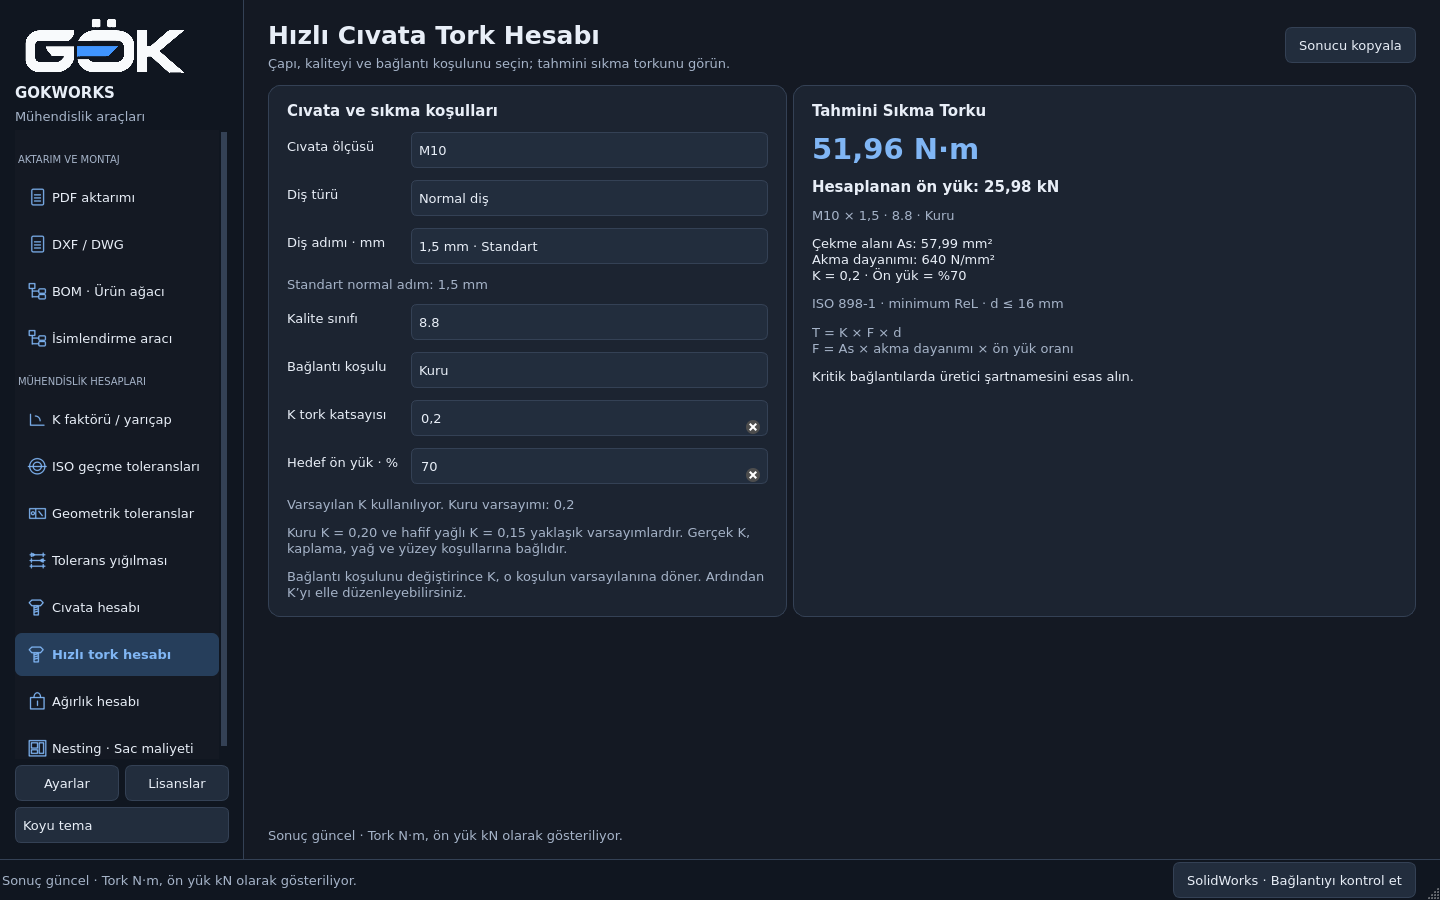
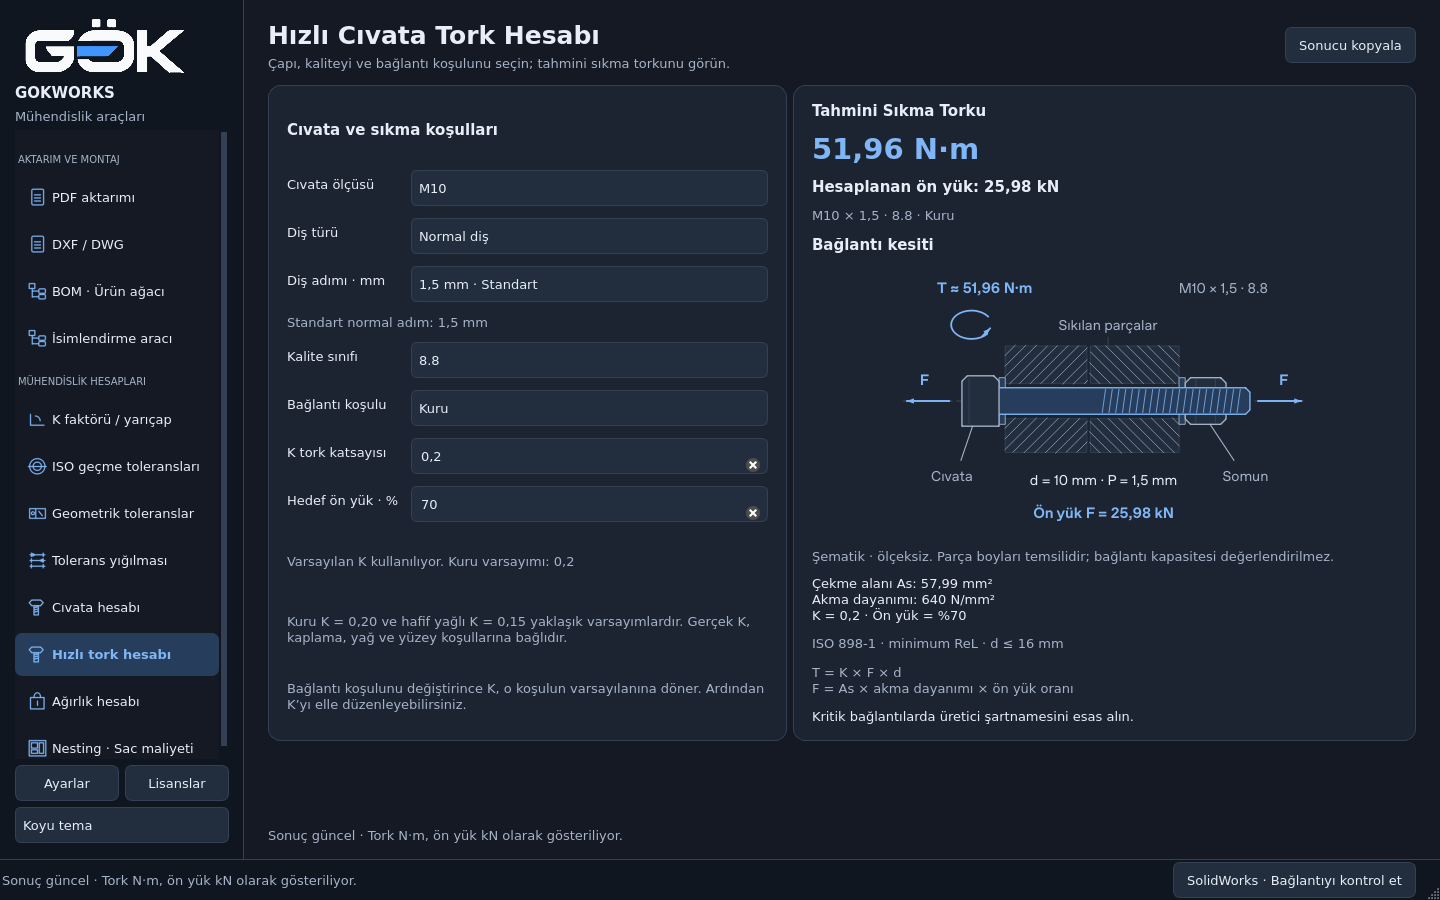
Add a live bolt joint section to the quick torque calculator

diff --git a/gui_qt/torque_diagram.py b/gui_qt/torque_diagram.py
@@ -1,0 +1,111 @@
+"""Schematic longitudinal bolt-joint section for the quick torque tool.
+
+Only diameter/pitch and the existing calculated torque/preload are labelled.
+Head, nut, grip, hole and plate geometry is illustrative, not catalogue data.
+"""
+
+from math import floor
+
+from .theme import COLORS
+
+
+def draw_section(scene, result, appearance, format_value):
+    c = COLORS[appearance]
+    scene.delete('all')
+    scene.configure(background=c['panel'])
+
+    def line(*points, color=None, **options):
+        return scene.create_line(*points, fill=color or c['muted'],
+                                 width=options.pop('width', 1.2), **options)
+
+    def text(x, y, value, *, tag=None, color=None, bold=False, **options):
+        return scene.create_text(x, y, text=value, fill=color or c['text'],
+                                 font=('Segoe UI', -17, 'bold') if bold else ('Segoe UI', -16),
+                                 tags=tag or (), **options)
+
+    def polygon(points, tag, *, fill=None, outline=None):
+        return scene.create_polygon(points, fill=fill or c['input'],
+                                    outline=outline or c['muted'], width=1.5, tags=tag)
+
+    def section(x0, y0, x1, y1, reverse=False):
+        scene.create_rectangle(x0, y0, x1, y1, fill=c['input'], outline=c['border'],
+                               tags='clamped_parts')
+        # Clip hatch strokes to each plate wall; the bolt bore remains clear.
+        height = y1-y0
+        for start in range(floor(x0-height), floor(x1), 12):
+            left, right = max(x0, start), min(x1, start+height)
+            if right <= left:
+                continue
+            first, last = y1-(left-start), y1-(right-start)
+            if reverse:
+                first, last = y0+y1-first, y0+y1-last
+            line(left, first, right, last, color=c['muted'], width=.8, tags='plate_hatch')
+
+    if result is None:
+        text(250, 150, 'Geçerli ölçüler girildiğinde kesit burada görünür.',
+             tag='section_empty', color=c['muted'], width=440)
+        return
+
+    y = 150
+    # Modest diameter-dependent proportions keep M3 and M36 readable in the
+    # same viewport. No unprovided length is presented as a real dimension.
+    diameter = 26 + 14*result.diameter_mm/36
+    top, bottom = y-diameter/2, y+diameter/2
+    for x0, x1, reverse in ((139, 231, False), (235, 335, True)):
+        section(x0, 88, x1, top-5, reverse)
+        section(x0, bottom+5, x1, 208, reverse)
+    line(24, y, 476, y, color=c['border'], dash=(6, 4), tags='bolt_axis')
+
+    # Washers and a chamfered nut side elevation. Fasteners remain unhatched
+    # in this longitudinal section; the projecting threaded end is visible.
+    nut_half = diameter*.88
+    for x0, x1 in ((132, 139), (335, 342)):
+        scene.create_rectangle(x0, y-nut_half, x1, y+nut_half,
+                               fill=c['selected'], outline=c['muted'], tags='washers')
+    polygon((342, y-nut_half+6, 348, y-nut_half, 382, y-nut_half,
+             388, y-nut_half+6, 388, y+nut_half-6, 382, y+nut_half,
+             348, y+nut_half, 342, y+nut_half-6), 'nut_profile')
+    for x in (354, 376):
+        line(x, y-nut_half+2, x, y+nut_half-2, color=c['border'])
+
+    polygon((131, top, 410, top, 415, top+5, 415, bottom-5,
+             410, bottom, 131, bottom), 'bolt_shank', fill=c['selected'], outline=c['accent'])
+    step = 4 + 24*result.pitch_mm/result.diameter_mm
+    x = 252.
+    while x < 410:
+        line(x, top+2, x-step*.48, bottom-2, color=c['accent'], width=.9, tags='bolt_thread')
+        x += step
+    head_left = 132-diameter*1.4
+    head_half = diameter*.95
+    polygon((head_left, y-head_half+6, head_left+6, y-head_half,
+             126, y-head_half, 132, y-head_half+6,
+             132, y+head_half, head_left, y+head_half), 'bolt_head')
+    line(head_left+8, y-head_half+3, head_left+8, y+head_half-3, color=c['border'])
+
+    # Opposing axial arrows denote the target bolt tension, not an external
+    # service load or an assessment of the plates/nut's capacity.
+    if result.preload_n > 0:
+        line(76, y, 28, y, color=c['accent'], width=2.2, arrow='last', tags='preload_arrow')
+        line(424, y, 473, y, color=c['accent'], width=2.2, arrow='last', tags='preload_arrow')
+        text(48, 126, 'F', color=c['accent'], bold=True)
+        text(453, 126, 'F', color=c['accent'], bold=True)
+    if result.torque_nm > 0:
+        # Conventional tightening-moment symbol beside the head.
+        scene.create_arc(78, 48, 124, 80, start=35, extent=285,
+                         outline=c['accent'], width=2, tags='torque_arc')
+        line(113, 77, 122, 68, color=c['accent'], width=2, arrow='last', tags='torque_arrow')
+    text(116, 23, f'T ≈ {format_value(result.torque_nm)} N·m',
+         tag='section_torque', color=c['accent'], bold=True, width=220)
+    pitch = f'{result.pitch_mm:g}'.replace('.', ',')
+    text(385, 23, f'{result.metric} × {pitch} · {result.grade}',
+         tag='section_selection', color=c['muted'], width=210)
+    text(255, 65, 'Sıkılan parçalar', color=c['muted'], tag='parts_label')
+    line(255, 78, 255, 88, color=c['border'])
+    line(head_left+12, y+head_half, 89, 217, color=c['muted'])
+    text(79, 235, 'Cıvata', tag='bolt_label', color=c['muted'])
+    line(370, y+nut_half, 397, 217, color=c['muted'])
+    text(410, 235, 'Somun', tag='nut_label', color=c['muted'])
+    d = f'{result.diameter_mm:g}'.replace('.', ',')
+    text(250, 240, f'd = {d} mm · P = {pitch} mm', tag='section_dimensions', width=290)
+    text(250, 276, f'Ön yük F = {format_value(result.preload_kn)} kN',
+         tag='section_preload', color=c['accent'], bold=True, width=450)

diff --git a/tests/test_bolt_torque_gui.py b/tests/test_bolt_torque_gui.py
@@ -4,7 +4,7 @@ import gc
 
 import pytest
 from PySide6.QtCore import QCoreApplication, QEvent
-from PySide6.QtWidgets import QApplication
+from PySide6.QtWidgets import QApplication, QGraphicsTextItem
 
 from bolt_torque.rules import calculate
 from gui_qt.app import create_application, MainWindow
@@ -85,10 +85,48 @@ def test_invalid_input_clears_stale_result_and_cannot_copy(window,qtbot):
     page.form.set_value('k','nan');page.copy_result()
     assert page.result is None and page.torque_value.text()=='—'
     assert not page.copy_button.isEnabled()
+    assert 'section_empty' in page.section_diagram.vector.tagged
+    assert 'section_torque' not in page.section_diagram.vector.tagged
+    assert 'bolt_shank' not in page.section_diagram.vector.tagged
     assert QApplication.clipboard().text()=='keep'
     page.form.set_value('k','0,20')
     qtbot.waitUntil(lambda:page.result is not None)
     assert page.copy_button.isEnabled()
+    assert 'section_empty' not in page.section_diagram.vector.tagged
+    assert 'bolt_shank' in page.section_diagram.vector.tagged
+
+
+def test_section_follows_selected_thread_and_live_torque_without_changing_calculation(window,qtbot):
+    page=window.pages['bolt_torque'];f=page.form
+    original_bolt=window.pages['bolt'].result
+    original_shank=page.section_diagram.vector.tagged['bolt_shank'][0].polygon()
+    original_threads=len(page.section_diagram.vector.tagged['bolt_thread'])
+    for key,value in dict(metric='M12',thread_series='İnce diş',condition='Hafif yağlı',
+                          k='0,18',preload_percent='65',grade='10.9').items():f.set_value(key,value)
+    f.fields['pitch'].setCurrentIndex(f.fields['pitch'].findData(1.25))
+    qtbot.waitUntil(lambda:page.result.metric=='M12' and page.result.pitch_mm==1.25)
+    tags=page.section_diagram.vector.tagged
+    assert tags['section_selection'][0].toPlainText()=='M12 × 1,25 · 10.9'
+    assert tags['section_dimensions'][0].toPlainText()=='d = 12 mm · P = 1,25 mm'
+    assert tags['section_torque'][0].toPlainText()=='T ≈ '+page.torque_value.text()
+    assert tags['section_preload'][0].toPlainText()=='Ön yük F = '+page.preload_value.text().split(': ',1)[1]
+    assert tags['bolt_shank'][0].polygon()!=original_shank
+    assert len(tags['bolt_thread'])!=original_threads
+    assert tags['nut_profile'] and tags['clamped_parts']
+    assert '1.25 mm' in page.section_diagram.accessibleDescription()
+    assert page.result==calculate(metric='M12',thread_series='İnce diş',pitch=1.25,
+                                  grade='10.9',condition='Hafif yağlı',k=.18,preload_percent=65)
+    assert window.pages['bolt'].result==original_bolt
+
+
+def test_zero_preload_is_a_valid_section_without_load_arrows(window,qtbot):
+    page=window.pages['bolt_torque'];page.form.set_value('preload_percent','0')
+    qtbot.waitUntil(lambda:page.result.preload_n==0)
+    tags=page.section_diagram.vector.tagged
+    assert tags['bolt_shank']
+    assert tags['section_torque'][0].toPlainText()=='T ≈ 0,00 N·m'
+    assert tags['section_preload'][0].toPlainText()=='Ön yük F = 0,00 kN'
+    assert not tags.get('preload_arrow') and not tags.get('torque_arrow')
 
 
 def test_settings_restart_preserves_custom_k_fine_pitch_and_percentage(window,qtbot,tmp_path):
@@ -115,5 +153,10 @@ def test_compact_wide_layout_and_copy_remain_accessible(window,qtbot,theme):
         assert page.form.fields['preload_percent'].width()>80
         assert page.torque_value.text().endswith('N·m')
         assert page.copy_button.isVisible() and page.copy_button.isEnabled()
+        diagram=page.section_diagram
+        for item in diagram.vector.items():
+            if isinstance(item,QGraphicsTextItem):
+                assert diagram.sceneRect().contains(item.sceneBoundingRect())
+                assert diagram.viewport().rect().contains(diagram.mapFromScene(item.sceneBoundingRect()).boundingRect())
         assert window.stack.geometry().right()<window.width()
         assert not window.grab().isNull()

diff --git a/gui_qt/pages/torque.py b/gui_qt/pages/torque.py
@@ -8,6 +8,8 @@ from PySide6.QtWidgets import QWidget, QVBoxLayout, QBoxLayout, QApplication
 from bolt.rules import THREADS, STANDARD_FINE_PITCHES
 from bolt_torque import rules as r
 from ..components import BasePage, ValueForm, card, label, scroll, button
+from ..diagrams import EngineeringDiagram
+from ..torque_diagram import draw_section
 
 
 def fmt(value, digits=2):
@@ -58,8 +60,17 @@ class TorquePage(BasePage):
         self.selection_label = label('', 'muted')
         self.basis_label = label()
         self.strength_label = label('', 'muted')
-        for widget in (self.torque_value, self.preload_value, self.selection_label,
-                       self.basis_label, self.strength_label):
+        for widget in (self.torque_value, self.preload_value, self.selection_label):
+            widget.setTextInteractionFlags(Qt.TextSelectableByMouse)
+            output.addWidget(widget)
+        output.addWidget(label('Bağlantı kesiti', 'section'))
+        self.section_diagram = EngineeringDiagram(width=500, height=300)
+        self.section_diagram.setMinimumHeight(230)
+        self.section_diagram.setMaximumHeight(300)
+        self.section_diagram.setAccessibleName('Cıvata, somun ve sıkılan parçaların şematik kesiti')
+        output.addWidget(self.section_diagram)
+        output.addWidget(label('Şematik · ölçeksiz. Parça boyları temsilidir; bağlantı kapasitesi değerlendirilmez.', 'muted'))
+        for widget in (self.basis_label, self.strength_label):
             widget.setTextInteractionFlags(Qt.TextSelectableByMouse)
             output.addWidget(widget)
         output.addWidget(label('T = K × F × d\nF = As × akma dayanımı × ön yük oranı', 'muted'))
@@ -142,6 +153,7 @@ class TorquePage(BasePage):
             self.copy_button.setEnabled(False)
             self.k_hint.setText('K katsayısını elle girebilir veya varsayılanına dönebilirsiniz.')
             self.reset_k_button.show()
+            self.refresh_section(None)
             self.set_status(str(error), True)
             return
         self.torque_value.setText(f'{fmt(result.torque_nm)} N·m')
@@ -156,7 +168,17 @@ class TorquePage(BasePage):
                            f'{result.condition} varsayımı: {r.DEFAULT_K[result.condition]:g}'.replace('.', ','))
         self.reset_k_button.setVisible(result.custom_k)
         self.copy_button.setEnabled(True)
+        self.refresh_section(result)
         self.set_status('Sonuç güncel · Tork N·m, ön yük kN olarak gösteriliyor.')
+
+    def refresh_section(self, result):
+        self.section_diagram.render_geometry(
+            lambda scene: draw_section(scene, result, self.context.appearance, fmt))
+        self.section_diagram.setAccessibleDescription(
+            ('Kesit için geçerli hesap girdileri gerekli.' if result is None else
+             f'{self.selection_label.text()}; nominal çap {result.diameter_mm:g} mm; '
+             f'diş adımı {result.pitch_mm:g} mm; tahmini tork {fmt(result.torque_nm)} N·m; '
+             f'hedef ön yük {fmt(result.preload_kn)} kN. Şematik ve ölçeksiz.'))
 
     def copy_result(self):
         # Read current fields even if the short live-update timer is pending.

diff --git a/gui_qt/package_check.py b/gui_qt/package_check.py
@@ -52,10 +52,13 @@ def check(output):
         torque = w.pages['bolt_torque']
         assert abs(torque.result.torque_nm - 51.958678824053294) < 1e-8
         assert abs(torque.result.preload_kn - 25.979339412026646) < 1e-8
+        assert torque.section_diagram.vector.tagged['section_torque'][0].toPlainText() == 'T ≈ 51,96 N·m'
+        assert torque.section_diagram.vector.tagged['bolt_shank']
         torque.form.set_value('condition', 'Hafif yağlı')
         torque.update_result()
         assert torque.result.k == .15
         assert abs(torque.result.torque_nm - 38.96900911803997) < 1e-8
+        assert torque.section_diagram.vector.tagged['section_torque'][0].toPlainText() == 'T ≈ 38,97 N·m'
         torque.copy_result()
         assert 'Tahmini Sıkma Torku' in QApplication.clipboard().text()
         weight = w.pages['weight']
@@ -221,6 +224,7 @@ def check(output):
                       'NFP true-contour nesting / 49.0625 kg / DXF-XLSX-PDF',
                       'live press-brake tooling profiles and dimensions',
                       'quick bolt torque / 51.96 Nm / 25.98 kN / clipboard',
+                      'torque joint section / live thread and preload',
                       'tolerance stack 0.20 / 0.02 / 0.38 mm','tolerance stack PDF/XLSX',
                       'vector diagrams','bolt kg/N','weight 157 kg','BOM XLSX','DXF dependency',
                       'Pack and Go interop source bundled','isolated PDF worker startup/IPC',

diff --git a/docs/bolt-torque.md b/docs/bolt-torque.md
@@ -44,6 +44,20 @@ tabloya yazılır. Ekrandaki alan hesaplanan değerdir.
 K, boyutsuz **tork katsayısıdır**; diş sürtünme katsayısı veya sac büküm K
 faktörü değildir. Mevcut K/R aracı ve `bolt.rules.PROOF_STRESS` değiştirilmez.
 
+### Canlı bağlantı kesiti
+
+Sonuç kartında cıvata, somun ve farklı tarama yönleriyle iki sıkılan parçanın
+boyuna kesiti bulunur. Seçilen nominal `d`, `P`, kalite sınıfı, tahmini `T` ve
+hedef ön yük `F` çizimde güncellenir. Çap gövde oranını, adım diş çizgilerinin
+aralığını değiştirir. Karşılıklı eksenel oklar cıvatadaki hedef çekme ön yükünü
+gösterir; dış servis yükünü göstermez. %0 ön yükte kesit ve sıfır değerleri
+korunur, yük/tork okları gösterilmez. Geçersiz girişte eski sonuç kaldırılır.
+
+Çizim şematik ve ölçeksizdir; baş, somun, parça, delik ve sıkma boyu ölçüleri
+temsili olup sayısal olarak verilmez. Bağlantı kapasitesi hesaplanmaz. Çizim
+mevcut sonucu kullanır; hesap motorunu, pano raporunu veya diğer modülleri
+değiştirmez. Açık/koyu tema ve pencere boyutuyla birlikte ölçeklenir.
+
 ## ISO 898-1 dayanım temeli
 
 Hesapta çekme dayanımı `Rm` veya deney yükü gerilmesi `Sp` yerine aşağıdaki
@@ -101,6 +115,7 @@ olduğu için aynı kalite ve hedef yüzdeyle ön yük/tork artar.
 
 - `bolt_torque/rules.py`: bağımsız hesap, doğrulama, dayanım ve sonuç modeli.
 - `gui_qt/pages/torque.py`: mevcut kartlar/formlar, tema, ayarlar ve tek tuşla pano.
+- `gui_qt/torque_diagram.py`: canlı cıvata–somun kesiti ve yük/tork gösterimi.
 - `tests/test_bolt_torque.py`: referans sonuçlar, bütün sunulan çap/adım/kalite
   kombinasyonları, M16 sınırı, birimler, manuel K, yüzdeler ve geçersiz girdiler.
 - `tests/test_bolt_torque_gui.py`: gerçek Qt girişleri, normal/ince adım,

diff --git a/bolt_torque/README.md b/bolt_torque/README.md
@@ -6,6 +6,11 @@ Bağımsız hesap motoru `rules.py`; yeni bağımlılık veya SolidWorks gerekti
 - M3–M36, normal/ince adım; 4.8, 5.8, 8.8, 10.9, 12.9.
 - Kuru K=0,20, hafif yağlı K=0,15; elle K girişi ve varsayılan %70 ön yük.
 - Tahmini tork N·m, ön yük kN, tek tuşla pano ve kayıtlı seçimler.
+- Canlı bağlantı kesiti: cıvata, somun, taralı iki parça, sıkma momenti ve hedef
+  ön yük okları. Çap/adım ve hesap değerleri çizim üzerinde güncellenir.
+
+Kesit şematik ve ölçeksizdir. Baş/somun ölçüsü, delik ve parça kalınlığı
+atanmaz; bağlantı kapasitesi veya üretim resmi anlamına gelmez.
 
 [Hesap formülleri, ISO dayanım temeli ve sınırlar](../docs/bolt-torque.md).
 
